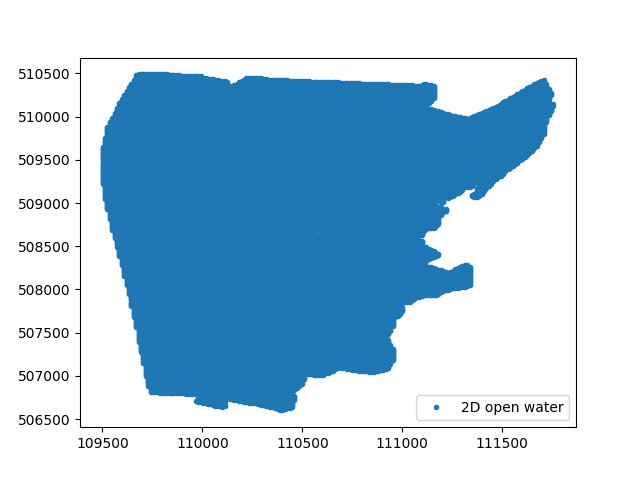
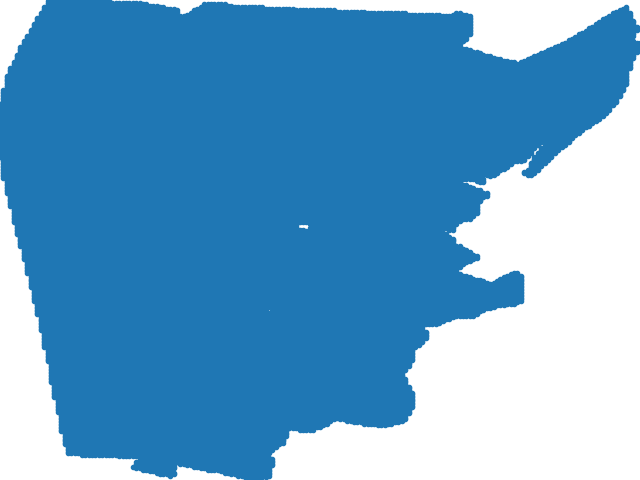
update 3di file

diff --git a/3di/3di.py b/3di/3di.py
@@ -15,12 +15,16 @@ plt.figure()
 xyc = ga.nodes.subset('2d_open_water').coordinates
 plt.plot(xyc[0], xyc[1], '.', label='2D open water')
 
+plt.gca().set_axis_off()
 plt.gcf().set_facecolor('none')
 plt.axis('off')
-
-print(plt.style.available)
-
-# plt.savefig('3di.png')
+plt.subplots_adjust(top = 1, bottom = 0, right = 1, left = 0, 
+            hspace = 0, wspace = 0)
+plt.margins(0,0)
+plt.gca().xaxis.set_major_locator(plt.NullLocator())
+plt.gca().yaxis.set_major_locator(plt.NullLocator())
+plt.savefig("3di.png", bbox_inches = 'tight',
+    pad_inches = 0)
 
 plt.show()
 
